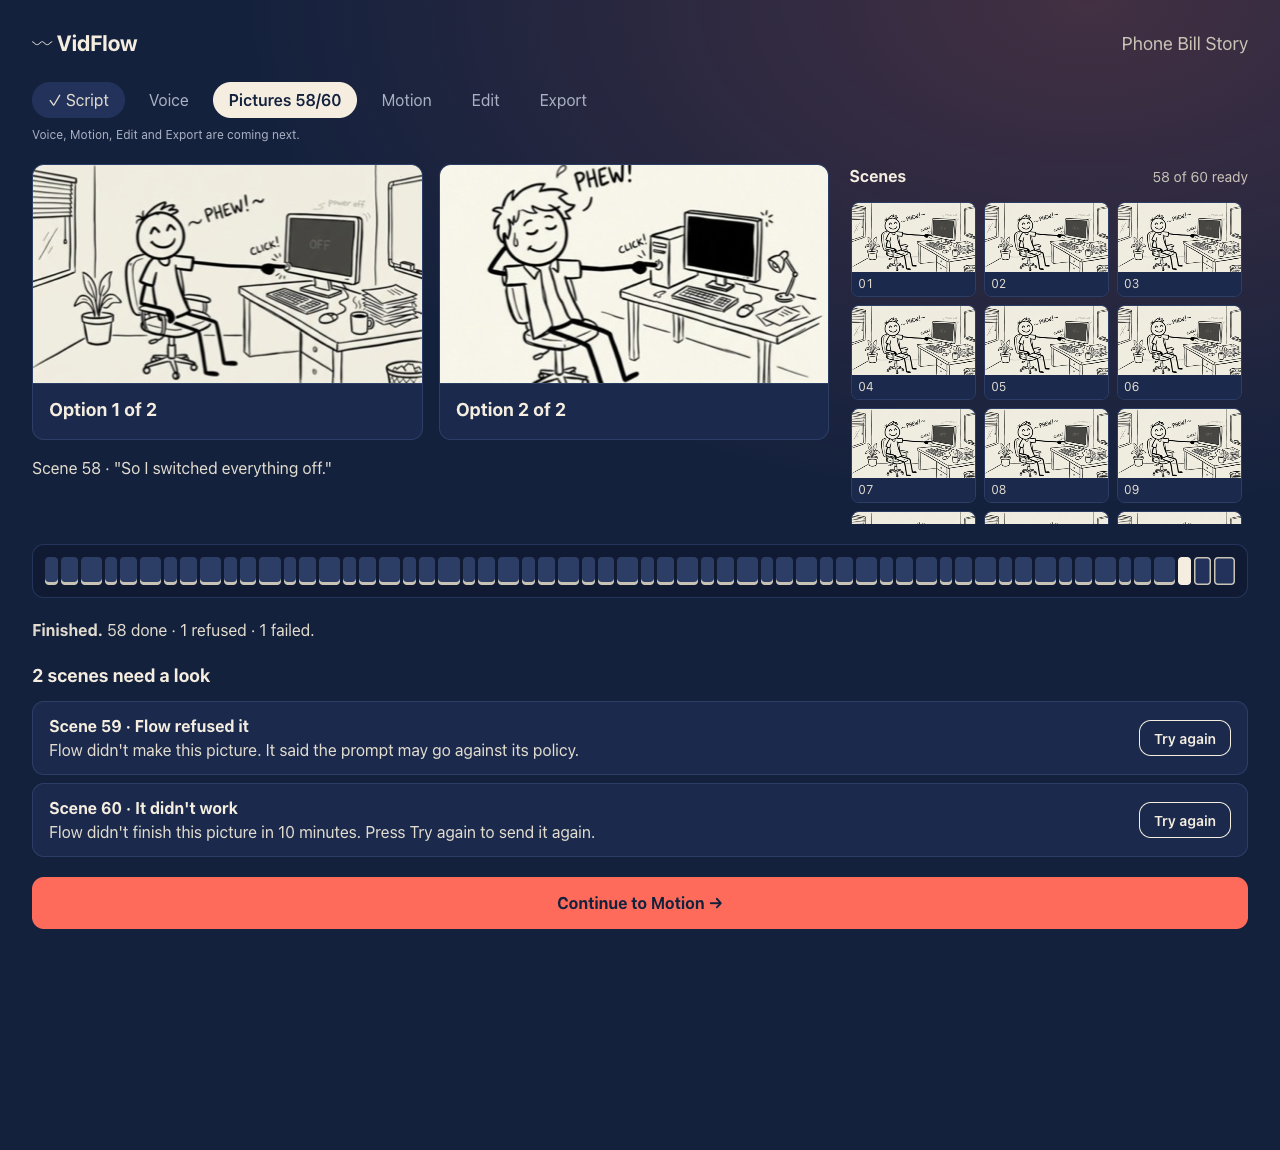
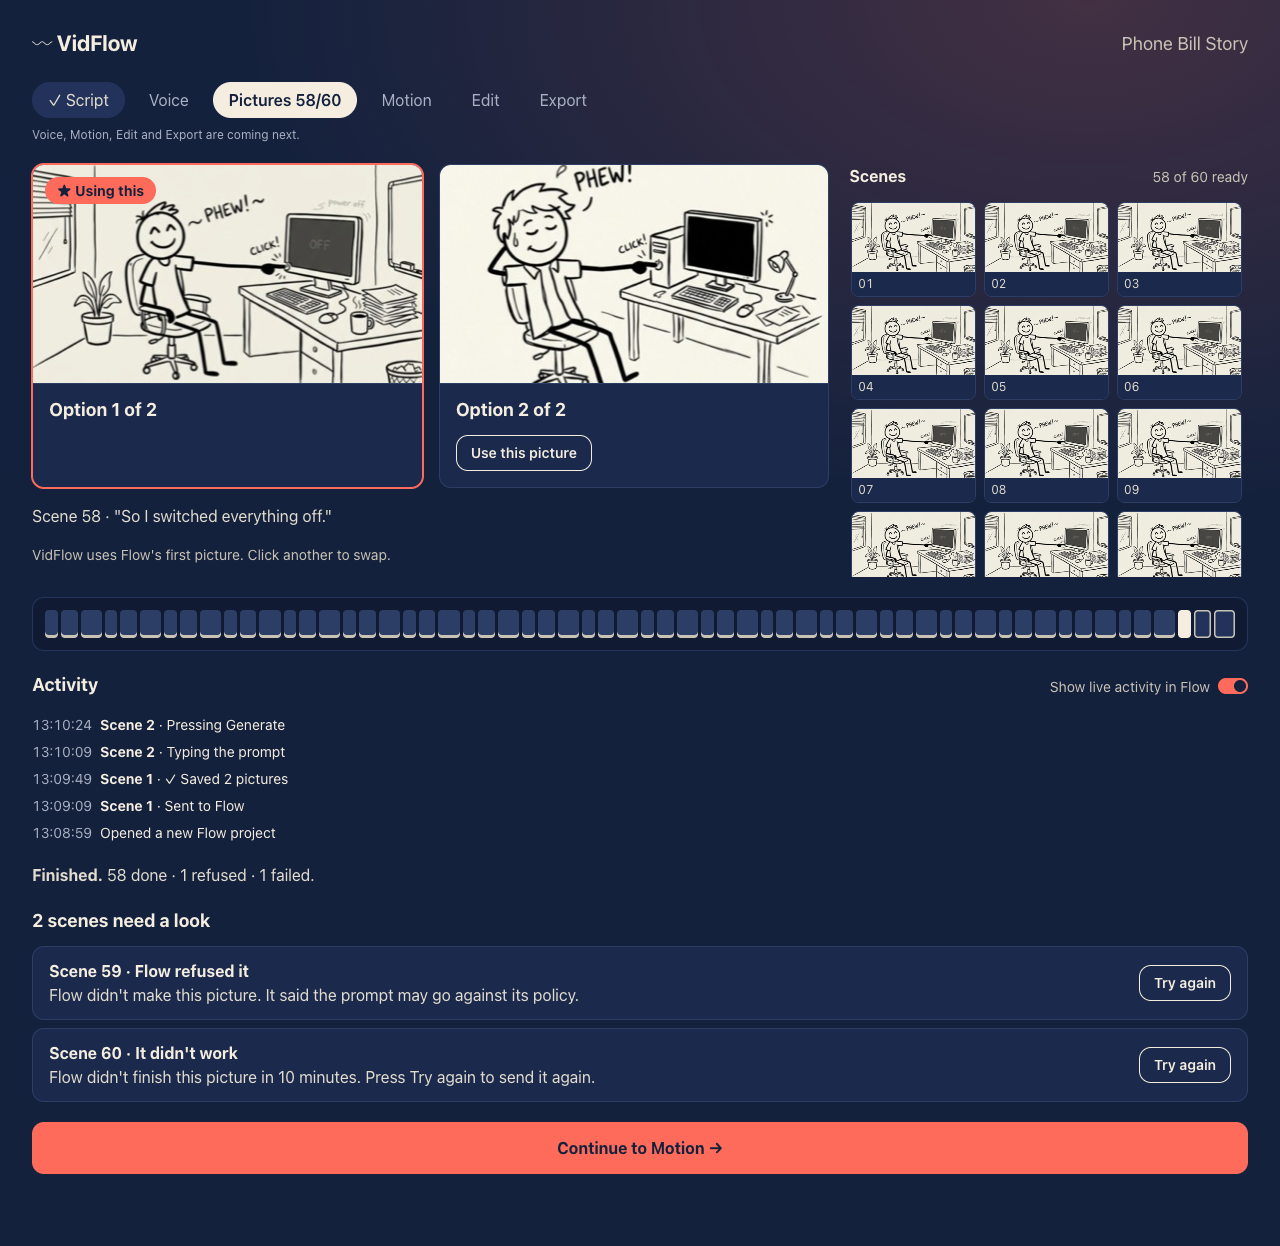
fix: picture swap review fixes
Each "Use this picture" button is described by its card's "Option K of N"
title; after a swap focus moves to the newly chosen card (tabindex -1), and
after a refusal back to the pressed button; a visually hidden status line
says "Using option K of N" and the chosen card carries aria-current. The
coral edge is a 1px border plus a 1px ring so a swap no longer moves the
picture. The read-back after a swap merges only the swapped scene. Build-check
screenshots refreshed.

diff --git a/src/studio/PicturesStep.tsx b/src/studio/PicturesStep.tsx
@@ -1,4 +1,4 @@
-import { useEffect, useId, useMemo, useState } from 'react';
+import { useEffect, useId, useMemo, useRef, useState, type Ref } from 'react';
 import type { RunReply } from '../flow/messages';
 import type { RunState } from '../runs/run';
 import type { MediaStore } from '../store/media';
@@ -19,8 +19,8 @@ interface Props {
   media: MediaStore;
   /** The run as the background reported it after a request. */
   onRunState(state: RunState | null): void;
-  /** The project's scene states as saved, read back after a swap (with no run live the background sends no broadcast). */
-  onSceneStates?(sceneStates: Record<string, SceneState>): void;
+  /** One scene's state as saved, read back after a swap (with no run live the background sends no broadcast). */
+  onSceneState?(sceneId: string, state: SceneState): void;
 }
 
 type Busy = null | 'start' | 'pause' | 'resume' | 'stop' | `retry:${string}`;
@@ -29,7 +29,7 @@ const MOTION_NEXT = 'Motion is coming next in VidFlow. Your pictures are saved i
 const SWAP_HINT = "VidFlow uses Flow's first picture. Click another to swap.";
 const SWAP_FAILED = "VidFlow couldn't save that choice. Try again.";
 
-export function PicturesStep({ project, run, client, media, onRunState, onSceneStates }: Props) {
+export function PicturesStep({ project, run, client, media, onRunState, onSceneState }: Props) {
   const [picked, setPicked] = useState<string | null>(null);
   const [busy, setBusy] = useState<Busy>(null);
   const [error, setError] = useState<string | null>(null);
@@ -37,6 +37,9 @@ export function PicturesStep({ project, run, client, media, onRunState, onSceneS
   // Swaps shown at once, before the background confirms them; each goes once the saved state agrees (or it fails).
   const [swaps, setSwaps] = useState<Record<string, string>>({});
   const [swapping, setSwapping] = useState(false);
+  // Where focus goes once a swap settles: the newly chosen card, or back to the button that was pressed.
+  const [focusTo, setFocusTo] = useState<{ pictureId: string; on: 'card' | 'button' } | null>(null);
+  const optionsRef = useRef<HTMLDivElement>(null);
 
   const phase = runPhase(project, run);
   const saved = useMemo(() => sceneStatesFor(project, run), [project, run]);
@@ -96,6 +99,14 @@ export function PicturesStep({ project, run, client, media, onRunState, onSceneS
   const stop = () => act('stop', () => client.stop());
   const retry = (sceneId: string) => act(`retry:${sceneId}`, () => client.retry(project.id, sceneId));
 
+  useEffect(() => {
+    if (!focusTo || swapping) return;
+    const card = [...(optionsRef.current?.querySelectorAll<HTMLElement>('figure') ?? [])].find((f) => f.dataset.pictureId === focusTo.pictureId);
+    const target = focusTo.on === 'card' ? card : card?.querySelector<HTMLElement>('button');
+    target?.focus();
+    setFocusTo(null);
+  }, [focusTo, swapping, states]);
+
   /** One click: the pill moves now; the background (the single writer) saves it; a refusal puts it back and says why. */
   async function swap(sceneId: string, pictureId: string) {
     if (swapping || chosenPicture(states[sceneId]) === pictureId) return;
@@ -111,13 +122,17 @@ export function PicturesStep({ project, run, client, media, onRunState, onSceneS
         return next;
       });
       setError(e instanceof Error && e.message ? e.message : SWAP_FAILED);
+      setFocusTo({ pictureId, on: 'button' });
       setSwapping(false);
       return;
     }
+    setFocusTo({ pictureId, on: 'card' });
     try {
       // Saved. Read it back: with no run live there is no broadcast to bring it; with one, the run has it too.
       const fresh = await getProject(project.id);
-      if (fresh) onSceneStates?.(fresh.sceneStates);
+      // Only this scene: anything else in the stored project is not this swap's to bring in.
+      const scene = fresh?.sceneStates[sceneId];
+      if (scene) onSceneState?.(sceneId, scene);
       if (phase === 'running' || phase === 'paused') {
         const reply = await client.get();
         if (reply.ok) onRunState(reply.state);
@@ -140,6 +155,7 @@ export function PicturesStep({ project, run, client, media, onRunState, onSceneS
           ) : (
             shown && (
               <Options
+                ref={optionsRef}
                 project={project}
                 state={shownState}
                 urls={urls}
@@ -157,6 +173,11 @@ export function PicturesStep({ project, run, client, media, onRunState, onSceneS
           )}
           {shown && !showBeforeStart && (shownState?.pictureIds.length ?? 0) > 1 && !project.scenes.some((s) => hasChoice(states[s.id])) && (
             <p className="vf-hint vf-swap-hint">{SWAP_HINT}</p>
+          )}
+          {shown && !showBeforeStart && (
+            <p role="status" className="vf-visually-hidden">
+              {usingLine(shownState)}
+            </p>
           )}
         </section>
 
@@ -298,7 +319,15 @@ function BeforeStart({ scenes, total, perScene }: { scenes: number; total: numbe
   );
 }
 
+/** "Using option 2 of 3" for screen readers; nothing while the scene has no pictures. */
+function usingLine(state: SceneState | undefined): string {
+  const inUse = chosenPicture(state);
+  if (!state || !inUse) return '';
+  return `Using option ${state.pictureIds.indexOf(inUse) + 1} of ${state.pictureIds.length}`;
+}
+
 interface OptionsProps {
+  ref?: Ref<HTMLDivElement>;
   project: Project;
   state: SceneState | undefined;
   urls: Record<string, string>;
@@ -307,7 +336,7 @@ interface OptionsProps {
   onUse(pictureId: string): void;
 }
 
-function Options({ project, state, urls, busy, onUse }: OptionsProps) {
+function Options({ ref, project, state, urls, busy, onUse }: OptionsProps) {
   const ids = state?.pictureIds ?? [];
   const count = ids.length > 0 ? ids.length : project.outputsPerPrompt;
   const inUse = chosenPicture(state);
@@ -315,7 +344,7 @@ function Options({ project, state, urls, busy, onUse }: OptionsProps) {
     state?.status === 'submitted' ? 'Flow is making this…' : state?.status === 'refused' || state?.status === 'failed' ? 'No picture' : 'Not made yet';
   const titleId = useId();
   return (
-    <div className="vf-options">
+    <div className="vf-options" ref={ref}>
       {Array.from({ length: count }, (_, i) => {
         const id = ids[i];
         const url = id ? urls[id] : undefined;
@@ -330,6 +359,9 @@ function Options({ project, state, urls, busy, onUse }: OptionsProps) {
             aria-labelledby={`${titleId}-${i}`}
             data-best={chosen || undefined}
             data-swap={other || undefined}
+            data-picture-id={id}
+            aria-current={chosen || undefined}
+            tabIndex={chosen ? -1 : undefined}
             onClick={onClick}
           >
             {chosen && <span className="vf-best">★ Using this</span>}
@@ -348,7 +380,7 @@ function Options({ project, state, urls, busy, onUse }: OptionsProps) {
                 Option {i + 1} of {count}
               </span>
               {other && (
-                <Button small className="vf-option-use" disabled={busy}>
+                <Button small className="vf-option-use" disabled={busy} aria-describedby={`${titleId}-${i}`}>
                   Use this picture
                 </Button>
               )}

diff --git a/tests/studio/swap.test.tsx b/tests/studio/swap.test.tsx
@@ -224,6 +224,74 @@ describe('one-click picture swap', () => {
     expect(primaries()).toHaveLength(1);
   });
 
+  it('each "Use this picture" button is described by its card\'s "Option K of N" title', async () => {
+    const p = await stored({ s1: done(1), s2: done(2, { pictureIds: ['m/a2', 'm/b2', 'm/c2'] }) });
+    window.location.hash = `#/project/${p.id}`;
+    render(<App client={backgroundClient()} media={media} />);
+    await waitFor(() => expect(screen.getAllByRole('button', { name: 'Use this picture' })).toHaveLength(2));
+    const descriptions = screen.getAllByRole('button', { name: 'Use this picture' }).map((b) => {
+      const ids = b.getAttribute('aria-describedby')!.split(' ');
+      return ids.map((id) => document.getElementById(id)?.textContent).join(' ');
+    });
+    expect(descriptions).toEqual(['Option 2 of 3', 'Option 3 of 3']);
+  });
+
+  it('after a swap, focus moves to the newly chosen card; after a refusal it stays on the pressed button', async () => {
+    const p = await stored();
+    await openStudio(p);
+    expect(option(1).getAttribute('tabindex')).toBe('-1'); // focusable by script, not a tab stop
+    const use = within(option(2)).getByRole('button', { name: 'Use this picture' });
+    use.focus();
+    fireEvent.click(use);
+    await waitFor(() => expect(document.activeElement).toBe(option(2)));
+    expect(option(2).getAttribute('tabindex')).toBe('-1');
+    expect(option(1).getAttribute('tabindex')).toBeNull();
+
+    cleanup();
+    const refused = backgroundClient({ choose: vi.fn(async (): Promise<RunReply> => ({ ok: false, reason: 'error', message: 'No.' })) });
+    await openStudio(await stored(), refused);
+    const again = within(option(2)).getByRole('button', { name: 'Use this picture' });
+    again.focus();
+    fireEvent.click(again);
+    await screen.findByText('No.');
+    await waitFor(() => expect(document.activeElement).toBe(within(option(2)).getByRole('button', { name: 'Use this picture' })));
+  });
+
+  it('says which option is in use: a status line and aria-current on the chosen card', async () => {
+    const p = await stored();
+    await openStudio(p);
+    const status = () => within(preview()).getByRole('status');
+    expect(status().textContent).toBe('Using option 1 of 2');
+    expect(status().className).toContain('vf-visually-hidden');
+    expect(option(1).getAttribute('aria-current')).toBe('true');
+    expect(option(2).getAttribute('aria-current')).toBeNull();
+    fireEvent.click(within(option(2)).getByRole('button', { name: 'Use this picture' }));
+    await waitFor(() => expect(status().textContent).toBe('Using option 2 of 2'));
+    expect(option(2).getAttribute('aria-current')).toBe('true');
+    expect(option(1).getAttribute('aria-current')).toBeNull();
+  });
+
+  it('the read-back after a swap takes only the swapped scene, not the whole saved project', async () => {
+    const p = await stored();
+    // Meanwhile something else saved scene 1 as failed; only scene 2 may come from the read-back.
+    const client = backgroundClient();
+    const choose = client.choose;
+    client.choose = vi.fn(async (projectId: string, sceneId: string, pictureId: string) => {
+      const reply = await choose(projectId, sceneId, pictureId);
+      const q = (await getProject(projectId))!;
+      q.sceneStates = { ...q.sceneStates, s1: { sceneId: 's1', status: 'failed', pictureIds: [], message: 'x' } };
+      await saveProject(q);
+      return reply;
+    });
+    await openStudio(p, client);
+    fireEvent.click(within(option(2)).getByRole('button', { name: 'Use this picture' }));
+    await waitFor(async () => expect((await getProject(p.id))!.sceneStates.s1?.status).toBe('failed'));
+    await act(() => new Promise((r) => setTimeout(r, 30)));
+    expect(option(2).getAttribute('data-best')).toBe('true');
+    expect(tileImg(1)?.getAttribute('src')).toBe('blob:m/a1'); // scene 1 still shown as it was
+    expect(screen.queryByRole('heading', { name: /needs a look/ })).toBeNull();
+  });
+
   it('puts the pill back and says why when the background refuses the swap', async () => {
     const p = await stored();
     const client = backgroundClient({

diff --git a/src/studio/ProjectScreen.tsx b/src/studio/ProjectScreen.tsx
@@ -18,11 +18,11 @@ interface Props {
   onHome(): void;
   /** The run as the background reported it after a request from this screen. */
   onRunState?(state: RunState | null): void;
-  /** The project's scene states as saved, read back after the owner swaps a picture. */
-  onSceneStates?(sceneStates: Record<string, SceneState>): void;
+  /** One scene's state as saved, read back after the owner swaps its picture. */
+  onSceneState?(sceneId: string, state: SceneState): void;
 }
 
-export function ProjectScreen({ project, run: runProp, client, media, initialStep, onChange, onHome, onRunState, onSceneStates }: Props) {
+export function ProjectScreen({ project, run: runProp, client, media, initialStep, onChange, onHome, onRunState, onSceneState }: Props) {
   const [step, setStep] = useState<'script' | 'pictures'>(initialStep ?? (project.scenes.length > 0 ? 'pictures' : 'script'));
   const [run, setRun] = useState(runProp);
   useEffect(() => setRun(runProp), [runProp]);
@@ -78,7 +78,7 @@ export function ProjectScreen({ project, run: runProp, client, media, initialSte
           onContinue={() => setStep('pictures')}
         />
       ) : (
-        <PicturesStep project={project} run={run} client={client} media={media} onRunState={reportRun} onSceneStates={onSceneStates} />
+        <PicturesStep project={project} run={run} client={client} media={media} onRunState={reportRun} onSceneState={onSceneState} />
       )}
     </div>
   );

diff --git a/src/studio/theme/studio.css b/src/studio/theme/studio.css
@@ -645,7 +645,19 @@ textarea.vf-input {
 
 /* The picture in use: coral border + the coral "★ Using this" pill (a label, not a button; approved look). */
 .vf-option[data-best='true'] {
-  border: 2px solid var(--vf-coral);
+  /* 1px border + 1px ring = the approved 2px coral edge, without moving the picture on a swap. */
+  border-color: var(--vf-coral);
+  box-shadow: 0 0 0 1px var(--vf-coral);
+}
+
+/* Focus lands on the chosen card after a swap (tabindex -1): keep the coral edge, add the cream ring outside it. */
+.vf-option[data-best='true']:focus-visible {
+  outline: none;
+  box-shadow: 0 0 0 1px var(--vf-coral), 0 0 0 3px var(--vf-navy), 0 0 0 5px var(--vf-cream);
+}
+
+.vf-option[data-best='true']:focus:not(:focus-visible) {
+  outline: none;
 }
 
 .vf-best {

diff --git a/src/studio/App.tsx b/src/studio/App.tsx
@@ -139,7 +139,9 @@ export function App({ client, media }: { client: RunClient; media: MediaStore })
             onChange={change}
             onHome={() => open(null)}
             onRunState={setRun}
-            onSceneStates={(sceneStates) => setProject((p) => (p && p.id === project.id ? { ...p, sceneStates } : p))}
+            onSceneState={(sceneId, state) =>
+              setProject((p) => (p && p.id === project.id ? { ...p, sceneStates: { ...p.sceneStates, [sceneId]: state } } : p))
+            }
           />
         ) : (
           !error && <p className="vf-hint">Opening your video…</p>
